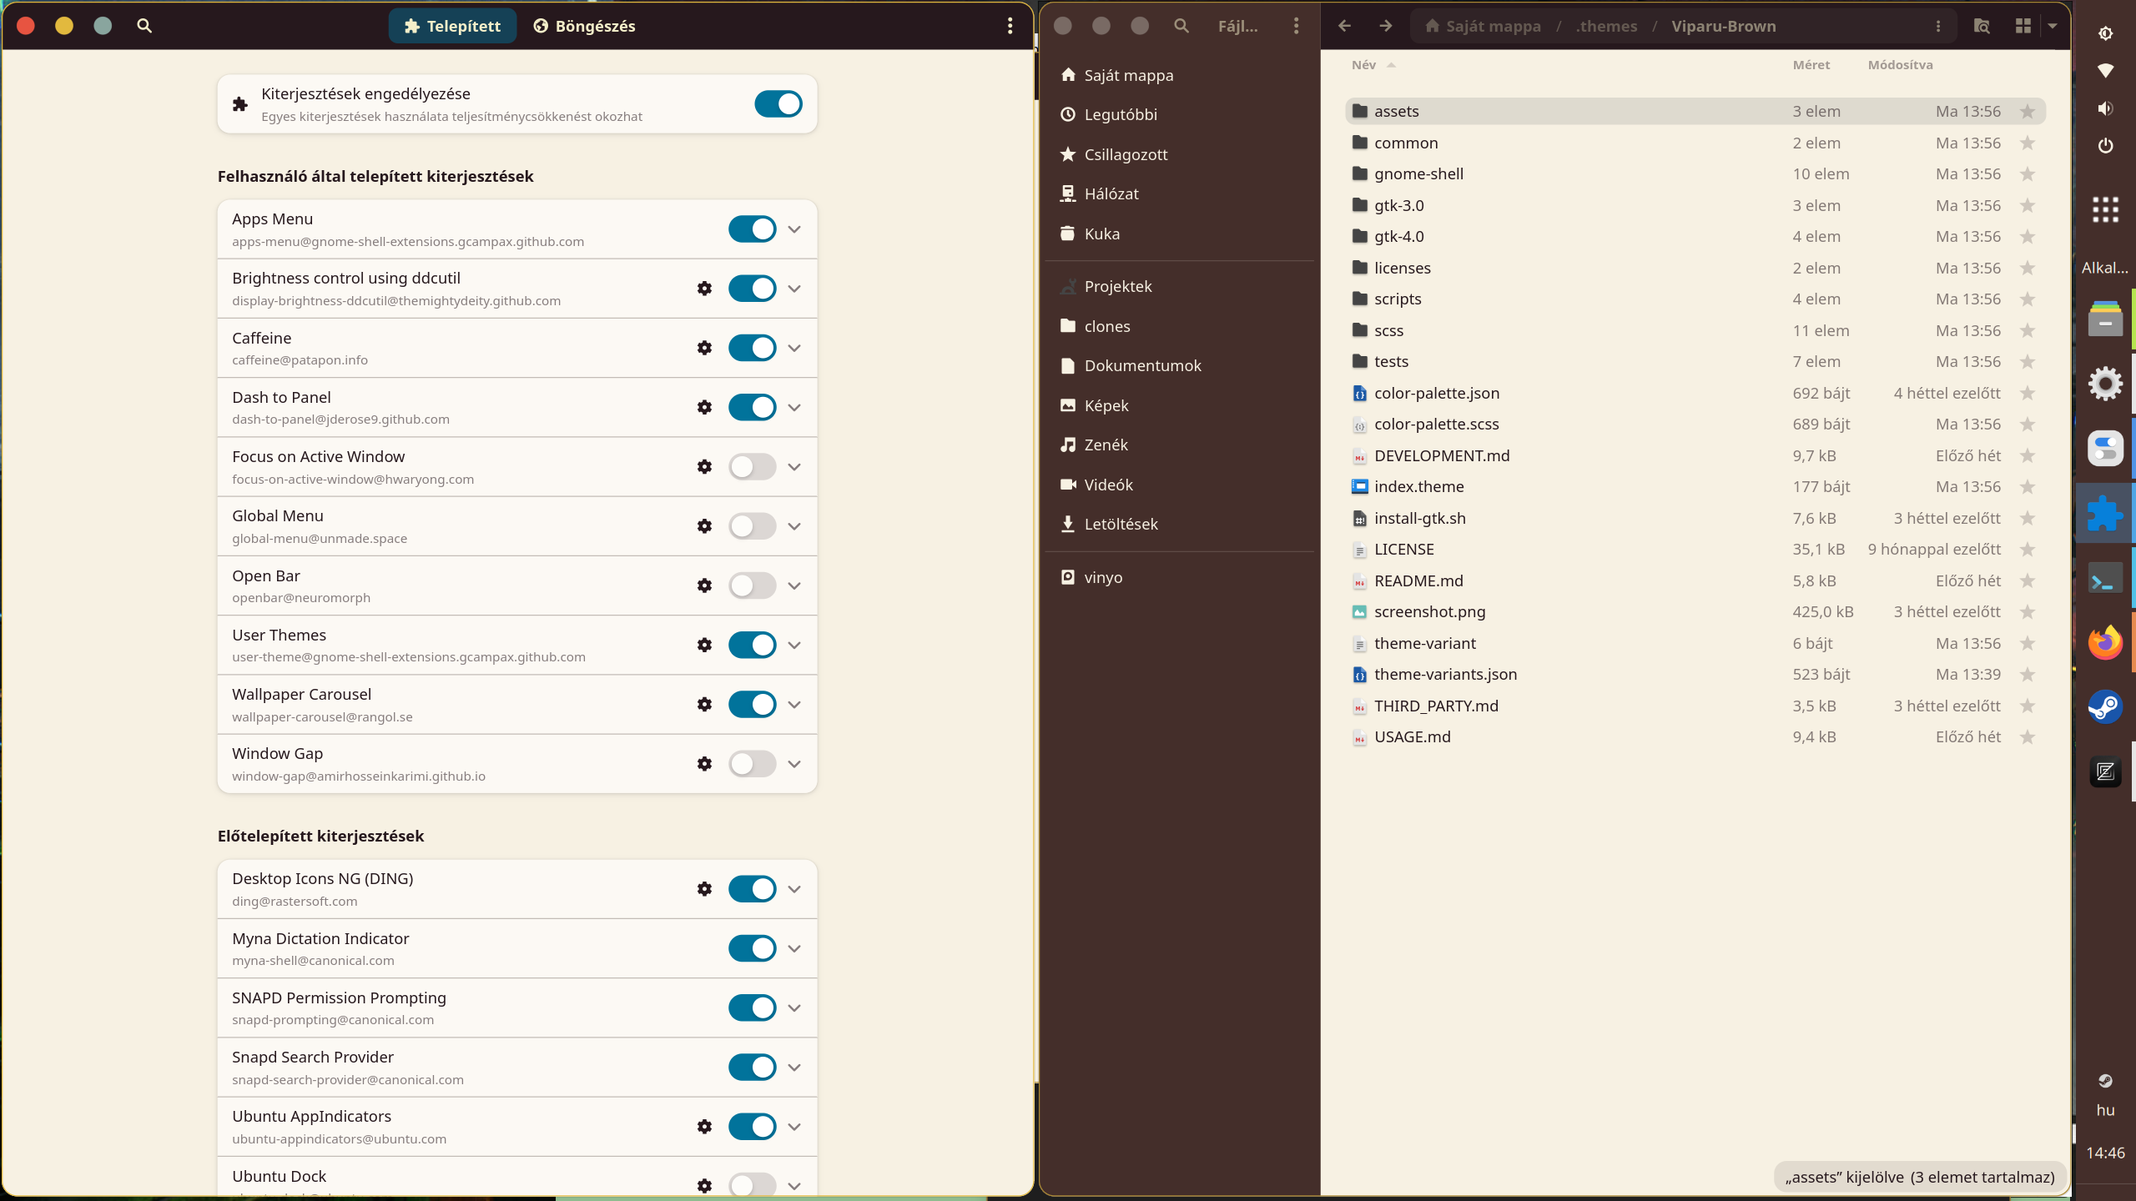
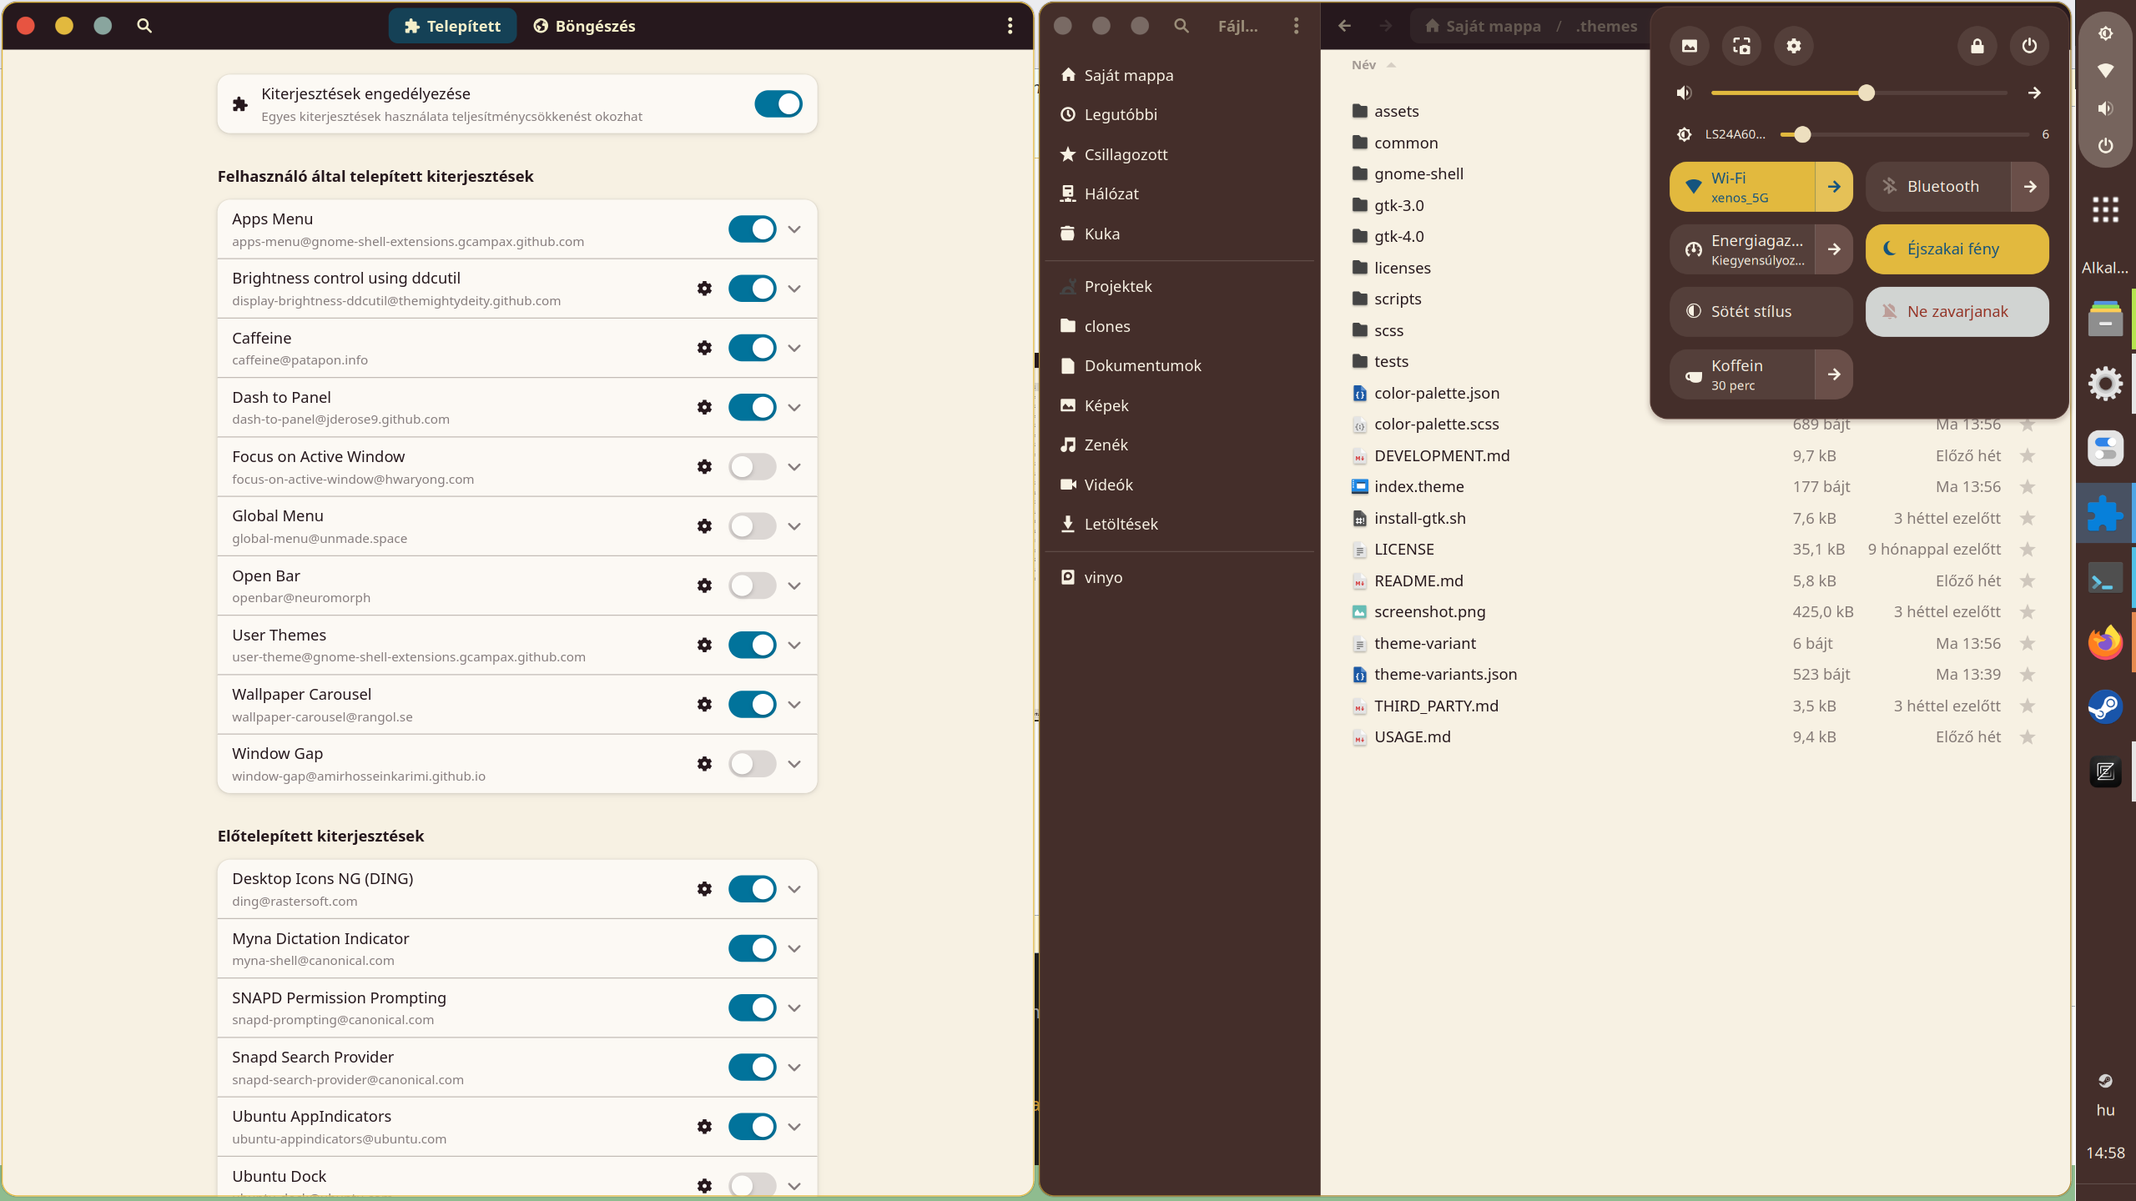
quality improvements

diff --git a/tests/test_variants.py b/tests/test_variants.py
@@ -279,6 +279,236 @@ class VariantTests(unittest.TestCase):
         for path, content in before.items():
             self.assertEqual((self.root / path).read_bytes(), content)
 
+    def output_targets(self):
+        return [self.root / "dist/themes" / value["name"]
+                for value in self.definitions.values()]
+
+    def seed_outputs(self):
+        targets = self.output_targets()
+        for index, target in enumerate(targets):
+            (target / "nested").mkdir(parents=True)
+            (target / "nested/sentinel").write_bytes(f"old output {index}".encode())
+        return targets
+
+    def tree_snapshot(self, root):
+        return {path.relative_to(root):
+                ("symlink", path.readlink()) if path.is_symlink() else
+                ("directory", None) if path.is_dir() else ("file", path.read_bytes())
+                for path in root.rglob("*")}
+
+    def make_invalid_output(self, path, kind, external):
+        if kind == "file":
+            path.write_bytes(b"not a directory")
+        else:
+            path.symlink_to(external if kind == "directory symlink"
+                            else external / "missing", target_is_directory=True)
+
+    def test_invalid_second_output_rejected_before_any_build_work(self):
+        first, second = self.seed_outputs()
+        before = self.tree_snapshot(first)
+        shutil.rmtree(second)
+        external = self.directory / "external"
+        external.mkdir()
+        (external / "sentinel").write_bytes(b"external data")
+        external_before = self.tree_snapshot(external)
+        for kind in ("file", "directory symlink", "dangling symlink"):
+            with self.subTest(kind=kind):
+                self.make_invalid_output(second, kind, external)
+                try:
+                    with patch.object(builder, "ROOT", self.root), \
+                            patch.object(builder, "compiler_command", side_effect=AssertionError(
+                                "Compiler lookup ran before output preflight")) as compiler, \
+                            patch.object(builder, "copy_project") as copy, \
+                            patch.object(builder, "build") as build:
+                        with self.assertRaises(ValueError):
+                            builder.build_variants()
+                        compiler.assert_not_called()
+                        copy.assert_not_called()
+                        build.assert_not_called()
+                    self.assertEqual(self.tree_snapshot(first), before)
+                    self.assertEqual(self.tree_snapshot(external), external_before)
+                    if kind == "file":
+                        self.assertEqual(second.read_bytes(), b"not a directory")
+                    else:
+                        self.assertTrue(second.is_symlink())
+                finally:
+                    second.unlink()
+
+    def test_invalid_output_containers_rejected_before_any_build_work(self):
+        external = self.directory / "external"
+        external.mkdir()
+        (external / "sentinel").write_bytes(b"external data")
+        before = self.tree_snapshot(external)
+        for relative in ("dist", "dist/themes"):
+            container = self.root / relative
+            container.parent.mkdir(parents=True, exist_ok=True)
+            for kind in ("file", "directory symlink", "dangling symlink"):
+                with self.subTest(container=relative, kind=kind):
+                    self.make_invalid_output(container, kind, external)
+                    try:
+                        with patch.object(builder, "ROOT", self.root), \
+                                patch.object(builder, "compiler_command", side_effect=AssertionError(
+                                    "Compiler lookup ran before output preflight")) as compiler, \
+                                patch.object(builder, "copy_project") as copy, \
+                                patch.object(builder, "build") as build:
+                            with self.assertRaises(ValueError):
+                                builder.build_variants()
+                            compiler.assert_not_called()
+                            copy.assert_not_called()
+                            build.assert_not_called()
+                        self.assertEqual(self.tree_snapshot(external), before)
+                        if kind == "file":
+                            self.assertEqual(container.read_bytes(), b"not a directory")
+                        else:
+                            self.assertTrue(container.is_symlink())
+                    finally:
+                        container.unlink()
+
+    def test_outputs_revalidated_after_final_staged_build_before_replacement(self):
+        external = self.directory / "external"
+        external.mkdir()
+        (external / "sentinel").write_bytes(b"external data")
+        external_before = self.tree_snapshot(external)
+        saved = self.directory / "saved-second-output"
+        for kind in ("file", "directory symlink", "dangling symlink"):
+            with self.subTest(kind=kind):
+                targets = self.seed_outputs()
+                before = [self.tree_snapshot(target) for target in targets]
+                calls = []
+
+                def mock_build(theme, compiler, environment):
+                    calls.append(theme)
+                    (theme / "built-marker").write_bytes(b"new output")
+                    if len(calls) == len(targets):
+                        # Simulate an output changing while the final build runs.
+                        targets[1].rename(saved)
+                        self.make_invalid_output(targets[1], kind, external)
+
+                try:
+                    with patch.object(builder, "ROOT", self.root), \
+                            patch.object(builder, "compiler_command", return_value=("mock-sassc", {})), \
+                            patch.object(builder, "build", side_effect=mock_build):
+                        with self.assertRaises(ValueError):
+                            builder.build_variants()
+                    self.assertEqual(len(calls), len(targets))
+                    self.assertTrue((targets[0] / "nested/sentinel").is_file(),
+                                    "First output was replaced before all targets were revalidated")
+                    self.assertEqual(self.tree_snapshot(targets[0]), before[0])
+                    self.assertEqual(self.tree_snapshot(saved), before[1])
+                    self.assertEqual(self.tree_snapshot(external), external_before)
+                    if kind == "file":
+                        self.assertEqual(targets[1].read_bytes(), b"not a directory")
+                    else:
+                        self.assertTrue(targets[1].is_symlink())
+                finally:
+                    for target in targets:
+                        if target.is_symlink() or target.is_file():
+                            target.unlink()
+                        elif target.exists():
+                            shutil.rmtree(target)
+                    if saved.exists():
+                        shutil.rmtree(saved)
+
+    def test_staged_build_failure_preserves_all_previous_outputs(self):
+        targets = self.seed_outputs()
+        before = [self.tree_snapshot(target) for target in targets]
+        calls = []
+
+        def mock_build(theme, compiler, environment):
+            calls.append(theme)
+            (theme / "built-marker").write_bytes(b"partial new output")
+            if len(calls) == len(targets):
+                raise RuntimeError("mock final build failed")
+
+        with patch.object(builder, "ROOT", self.root), \
+                patch.object(builder, "compiler_command", return_value=("mock-sassc", {})), \
+                patch.object(builder, "build", side_effect=mock_build):
+            with self.assertRaisesRegex(RuntimeError, "mock final build failed"):
+                builder.build_variants()
+        self.assertEqual(len(calls), len(targets))
+        for target, snapshot in zip(targets, before):
+            self.assertEqual(self.tree_snapshot(target), snapshot)
+
+    def test_replacing_old_outputs_does_not_follow_nested_symlinks(self):
+        targets = self.seed_outputs()
+        external = self.directory / "external"
+        external.mkdir()
+        sentinel = external / "sentinel"
+        sentinel.write_bytes(b"external data")
+        for target in targets:
+            (target / "nested/directory-link").symlink_to(external, target_is_directory=True)
+            (target / "nested/file-link").symlink_to(sentinel)
+            (target / "nested/broken-link").symlink_to(external / "missing")
+        before = self.tree_snapshot(external)
+
+        def mock_build(theme, compiler, environment):
+            (theme / "built-marker").write_bytes(b"new output")
+
+        with patch.object(builder, "ROOT", self.root), \
+                patch.object(builder, "compiler_command", return_value=("mock-sassc", {})), \
+                patch.object(builder, "build", side_effect=mock_build):
+            self.assertEqual(builder.build_variants(), targets)
+        self.assertEqual(self.tree_snapshot(external), before)
+        for target in targets:
+            self.assertEqual((target / "built-marker").read_bytes(), b"new output")
+            self.assertFalse((target / "nested").exists())
+            self.assertFalse(any(path.is_symlink() for path in target.rglob("*")))
+
+    def test_included_source_symlinks_are_rejected_without_copying(self):
+        external = self.directory / "external"
+        external.mkdir()
+        sentinel = external / "sentinel"
+        sentinel.write_bytes(b"external data")
+        package_theme = load_script("variant_test_packager", "package-theme.py")
+        for kind, source in (("file", sentinel), ("directory", external),
+                             ("broken", external / "missing")):
+            with self.subTest(kind=kind):
+                link = self.root / "scss/included-link"
+                link.symlink_to(source, target_is_directory=kind == "directory")
+                destination = self.directory / f"rejected-{kind}"
+                try:
+                    with self.assertRaisesRegex(ValueError, "[Ss]ymlink"):
+                        variants.project_files(self.root)
+                    with self.assertRaisesRegex(ValueError, "[Ss]ymlink"):
+                        package_theme.package_files(self.root)
+                    with self.assertRaisesRegex(ValueError, "[Ss]ymlink"):
+                        variants.copy_project(destination, next(iter(self.definitions)), self.root)
+                    self.assertFalse(destination.exists())
+                    self.assertEqual(sentinel.read_bytes(), b"external data")
+                finally:
+                    link.unlink()
+
+    def test_excluded_source_symlinks_are_ignored_not_copied(self):
+        external = self.directory / "external"
+        external.mkdir()
+        sentinel = external / "sentinel"
+        sentinel.write_bytes(b"external data")
+        expected = {path.relative_to(self.root) for path in variants.project_files(self.root)}
+        # Directory links, including dangling ones, must never be traversed.
+        for relatives, source in (
+                (("scss/.hidden", "gnome-shell/.build", "scripts/__pycache__"), external),
+                (("scss/.broken", "scss/.build", "tests/__pycache__"), external / "missing")):
+            for relative in relatives:
+                (self.root / relative).symlink_to(source, target_is_directory=True)
+        for suffix in (".pyc", ".pyo"):
+            for name, source in (("normal", sentinel), ("broken", external / "missing")):
+                (self.root / "scripts" / (name + suffix)).symlink_to(source)
+        hidden = self.root / "scss/.hidden-contents"
+        hidden.mkdir()
+        (hidden / "normal").symlink_to(sentinel)
+        (hidden / "broken").symlink_to(external / "missing")
+        self.assertEqual({path.relative_to(self.root) for path in variants.project_files(self.root)},
+                         expected)
+        package_theme = load_script("variant_test_packager_exclusions", "package-theme.py")
+        self.assertEqual({path.relative_to(self.root) for path in package_theme.package_files(self.root)},
+                         expected)
+        destination = self.directory / "excluded-links-copy"
+        variants.copy_project(destination, next(iter(self.definitions)), self.root)
+        self.assertEqual({path.relative_to(destination) for path in destination.rglob("*")
+                          if path.is_file()}, expected)
+        self.assertFalse(any(path.is_symlink() for path in destination.rglob("*")))
+        self.assertEqual(sentinel.read_bytes(), b"external data")
+
     def test_unknown_build_variant_rejected_before_compiler(self):
         with patch.object(builder, "ROOT", self.root), \
                 patch.object(builder, "compiler_command") as compiler, \

diff --git a/scripts/build-theme.py b/scripts/build-theme.py
@@ -98,6 +98,15 @@ def build(root, compiler, environment):
         print(f"Resolved {len(assets)} local theme assets", flush=True)
 
 
+def validate_output_directories(paths):
+    """Reject unsafe output roots before any existing variant is replaced."""
+    for path in paths:
+        if path.is_symlink():
+            raise ValueError(f"Refusing to replace theme output symlink: {path}")
+        if path.exists() and not path.is_dir():
+            raise ValueError(f"Theme output must be a directory: {path}")
+
+
 def build_variants(keys=None):
     """Stage complete, independently rebuildable themes; leave local CSS untouched."""
     variants = load_variants(ROOT)
@@ -105,8 +114,11 @@ def build_variants(keys=None):
     for key in keys:
         if key not in variants:
             raise ValueError(f"Unknown theme variant: {key!r}")
-    compiler, environment = compiler_command()
     destination = ROOT / "dist/themes"
+    targets = [destination / variants[key]["name"] for key in keys]
+    output_directories = [destination.parent, destination, *targets]
+    validate_output_directories(output_directories)
+    compiler, environment = compiler_command()
     destination.mkdir(parents=True, exist_ok=True)
     # Do not replace previously usable outputs unless every requested build succeeds.
     with tempfile.TemporaryDirectory(prefix=".variants-", dir=destination.parent) as directory:
@@ -115,15 +127,14 @@ def build_variants(keys=None):
             theme = staging / variants[key]["name"]
             copy_project(theme, key, ROOT)
             build(theme, compiler, environment)
-        for key in keys:
-            name = variants[key]["name"]
-            target = destination / name
-            if target.is_symlink():
-                raise ValueError(f"Refusing to replace theme output symlink: {target}")
+        # Recheck every target together: a late invalid target must not leave
+        # earlier variants replaced. This is not a multi-directory transaction.
+        validate_output_directories(output_directories)
+        for key, target in zip(keys, targets):
             if target.exists():
                 shutil.rmtree(target)
-            (staging / name).replace(target)
-    return [destination / variants[key]["name"] for key in keys]
+            (staging / variants[key]["name"]).replace(target)
+    return targets
 
 
 def main():

diff --git a/DEVELOPMENT.md b/DEVELOPMENT.md
@@ -213,9 +213,21 @@ See [the usage guide](USAGE.md#switching-variants-or-migrating-from-viparu).
 
 An explicit list of project paths excludes `.git/`, `.build-tools/`, `dist/`,
 Shell `.build/` staging and Python caches. Local config backups and diagnostic
-screenshots must never be distributed. Symlinks inside package inputs are
-rejected rather than silently embedding external files. The previous archive is
-replaced only after the new archive has been written successfully.
+screenshots must never be distributed. Symlinks in included package inputs are
+rejected rather than silently embedding external files. Links in excluded paths
+are ignored along with those paths: they are neither followed nor copied.
+Copying and packaging use the same `project_files()` enumeration.
+
+Standalone builds validate `dist/`, `dist/themes/` and every requested variant's
+existing output path before building and again before replacing any output.
+These paths must be real directories or absent, not files or symlinks (including
+dangling links). Links inside old output directories are removed without following
+them when those outputs are replaced. All requested builds must succeed first;
+invalid destinations found by preflight leave existing variants untouched.
+Replacement is not a multi-directory transaction: concurrent filesystem changes
+or I/O failures during replacement can still leave partially updated outputs.
+The previous archive is replaced only after the new archive has been written
+successfully.
 
 Before publishing:
 
@@ -252,3 +264,28 @@ The checks cover control states, header backgrounds and native layout, window
 outlines/artwork, CSS parsing, assets, palette generation, packaging and installer
 backup continuity. They are never invoked by builds or packaging. Passing these
 checks does not replace manual application/Shell compatibility checks.
+
+### GNOME Shell 51 manual release checklist
+
+`tests/test_shell_states.py` inspects the compiled CSS and models the relevant
+selector cascade. It does not run GNOME Shell's St CSS engine, render Shell
+widgets or simulate input. Compilation and these static checks do not by
+themselves establish runtime compatibility.
+
+On the targeted GNOME Shell 51 session, select each variant and check:
+
+- Enabled quick toggles in both checked and unchecked states: normal, pointer
+  hover, pointer exit, keyboard focus and focus exit.
+- Split toggles: the main button and its separate menu-arrow button, including
+  pointer movement between the halves.
+- A genuinely disabled/insensitive control (not just an unchecked toggle): hover
+  must not restore enabled text colors or an enabled-looking background. Mark
+  this case unverified if the session offers no such control; do not disable
+  hardware or alter unrelated desktop settings merely to manufacture one.
+- Brown: checked controls retain gold backgrounds; unchecked hover/focus uses
+  the pale silver/linen background, with readable brownish-red text/icons.
+- Nile Blue: no Brown-specific hover or focus colors leak into its appearance.
+
+Record the actual Shell version, relevant extensions and checked states with
+release notes. Screenshots establish only the visible states they capture; do
+not describe unexercised keyboard or insensitive states as runtime-tested.
